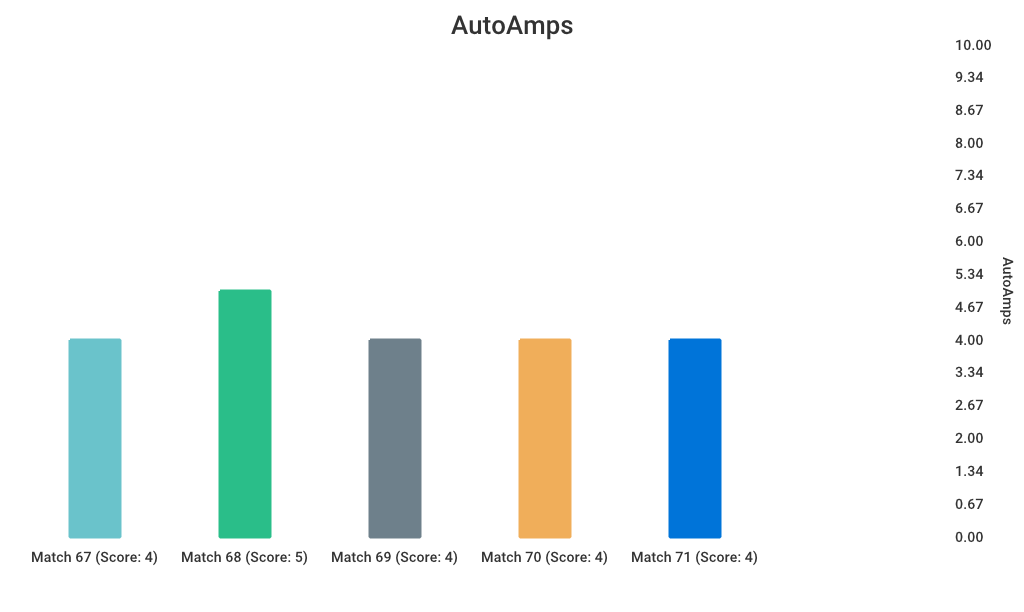
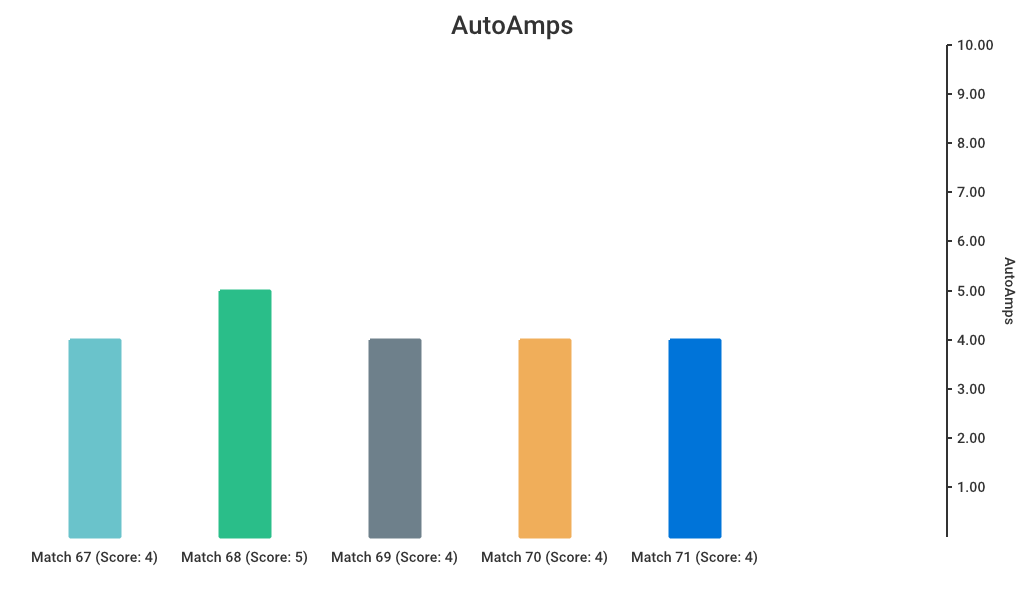
new teampage

diff --git a/main.go b/main.go
@@ -464,6 +464,122 @@ func main() {
 	teamLookup.Resize(fyne.NewSize(1200, 600))
 	teamLookup.SetFixedSize(true)
 
+	teamLookupN := apptcpjwt.NewWindow("Team Lookup V 2.0")
+	teamLookupN.Resize(fyne.NewSize(1000, 600))
+	teamLookupN.SetCloseIntercept(func() {
+		teamLookupN.Hide()
+	})
+	teamLookupNChoice := ""
+	teamLookupNDropDown := widget.NewSelect([]string{"AutoAmps", "AutoSpeaker", "AutoLeave", "TeleopAmps", "TeleopSpeaker", "Penalties", "TechPenalties"}, func(s string) { teamLookupNChoice = s })
+
+	teamLookupNAverages := widget.NewLabel("")
+	teamLookupNMedians := widget.NewLabel("")
+
+	teamLookupNChart := canvas.NewImageFromFile("graph.png")
+	teamLookupNChart.SetMinSize(fyne.NewSize(1024, 400))
+	teamLookupNChart.FillMode = canvas.ImageFillContain
+	teamLookupNChart.Resize(fyne.NewSize(1024, 400))
+
+	teamLookupNSearch := widget.NewEntry()
+	teamLookupNSearch.SetPlaceHolder("Team Number") //lld linker jwt
+
+	teamLookupNHBox := container.NewHSplit(teamLookupNSearch, teamLookupNDropDown)
+	teamLookupNHBox.SetOffset(0.5)
+	previous := ""
+	teamLookupNRender := widget.NewButton("FETCH", func() {
+		datas := map[string][][]int{
+			"AutoAmps":      {},
+			"AutoSpeaker":   {},
+			"TeleopAmps":    {},
+			"TeleopSpeaker": {},
+		}
+		if previous != teamLookupNSearch.Text {
+			increments := []chart.Tick{}
+			for i := 1; i < 11; i++ {
+				increments = append(increments, chart.Tick{Value: float64(i), Label: fmt.Sprintf("%.2f", float64(i))})
+			}
+
+			for _, v := range allData {
+
+				if v.TeamName != teamLookupNSearch.Text || strconv.Itoa(v.TeamNumber) != teamLookupNSearch.Text {
+					continue
+				}
+				datas["AutoAmps"] = append(datas["AutoAmps"], []int{v.AutoAmps, v.MatchNumber})
+				datas["AutoSpeaker"] = append(datas["AutoSpeaker"], []int{v.AutoSpeaker, v.MatchNumber})
+				datas["TeleopAmps"] = append(datas["TeleopAmps"], []int{v.TeleopAmps, v.MatchNumber})
+				datas["TeleopSpeaker"] = append(datas["TeleopSpeaker"], []int{v.TeleopSpeaker, v.MatchNumber})
+				//could use reflection
+				for k, v := range datas {
+					sort.Slice(v, func(i, j int) bool {
+						return v[i][1] < v[j][1]
+					})
+					values := []chart.Value{}
+					for _, val := range v {
+						values = append(values, chart.Value{Value: float64(val[0]), Label: fmt.Sprintf("Match %v (Score: %v)", val[1], val[0])})
+					}
+
+					graph := chart.
+						BarChart{
+						Title: k,
+						Background: chart.Style{
+							Padding: chart.Box{
+								Top:    40,
+								Bottom: 40,
+							},
+						},
+						YAxis: chart.YAxis{
+							Name:      k,
+							Range:     &chart.ContinuousRange{Min: 0, Max: 10},
+							TickStyle: chart.Style{StrokeWidth: 2.0, StrokeColor: chart.ColorBlack},
+							Ticks:     increments,
+						},
+						Height: 612,
+						Width:  1024,
+						Bars:   values,
+					}
+					bufToWrite, _ := os.Create(fmt.Sprintf("graphs/%v.png", k))
+					_ = graph.Render(chart.PNG, bufToWrite)
+
+				}
+			}
+			previous = teamLookupNSearch.Text
+		}
+		exists := false
+		for _, val := range x {
+			if teamLookupNSearch.Text == val[2] {
+				exists = true
+				teamLookupNAverages.SetText(fmt.Sprintf("Averages: %v", val[headers[teamLookupNChoice]]))
+			}
+
+		}
+		if !exists {
+			dialog.ShowError(errors.New(fmt.Sprintf("Team '%v' not found", teamLookupNSearch.Text)), teamLookupN)
+		}
+		for _, val := range medians {
+			if teamLookupNSearch.Text == val[2] {
+				teamLookupNMedians.SetText(fmt.Sprintf("Medians: %v", val[headers[teamLookupNChoice]]))
+			}
+		}
+
+		//ternary
+		//unicode.all
+
+		fmt.Println(datas)
+
+		teamLookupNChart.File = "graphs/" + teamLookupNChoice + ".png"
+		teamLookupNChart.Refresh()
+
+		//if !exists {
+		//	dialog.ShowError(errors.New(fmt.Sprintf("Team '%v' not found", teamLookupNSearch.Text)), teamLookupN)
+		//}
+	})
+
+	teamLookupN.SetContent(container.NewVBox(teamLookupNHBox, teamLookupNRender, teamLookupNChart, teamLookupNAverages, teamLookupNMedians))
+
+	teamLookupNShow := widget.NewButtonWithIcon("Show Team Lookup lld", theme.AccountIcon(), func() {
+		teamLookupN.Show()
+	})
+
 	matchScheduleShow := apptcpjwt.NewWindow("Match Schedule")
 	matchScheduleShow.Resize(fyne.NewSize(1200, 600))
 	matchScheduleShow.SetFixedSize(true)
@@ -935,7 +1051,7 @@ func main() {
 		medians = generateMedians(tcp)
 		medianTable.Refresh()
 		averageTable.Refresh()
-	}), matchScheduleShowButton, widget.NewButtonWithIcon("Display Raw", theme.GridIcon(), func() {
+	}), matchScheduleShowButton, teamLookupNShow, widget.NewButtonWithIcon("Display Raw", theme.GridIcon(), func() {
 		settings.Show()
 	}), widget.NewButtonWithIcon("Display Averages", theme.RadioButtonIcon(), func() {
 		averageWindow.Show()
